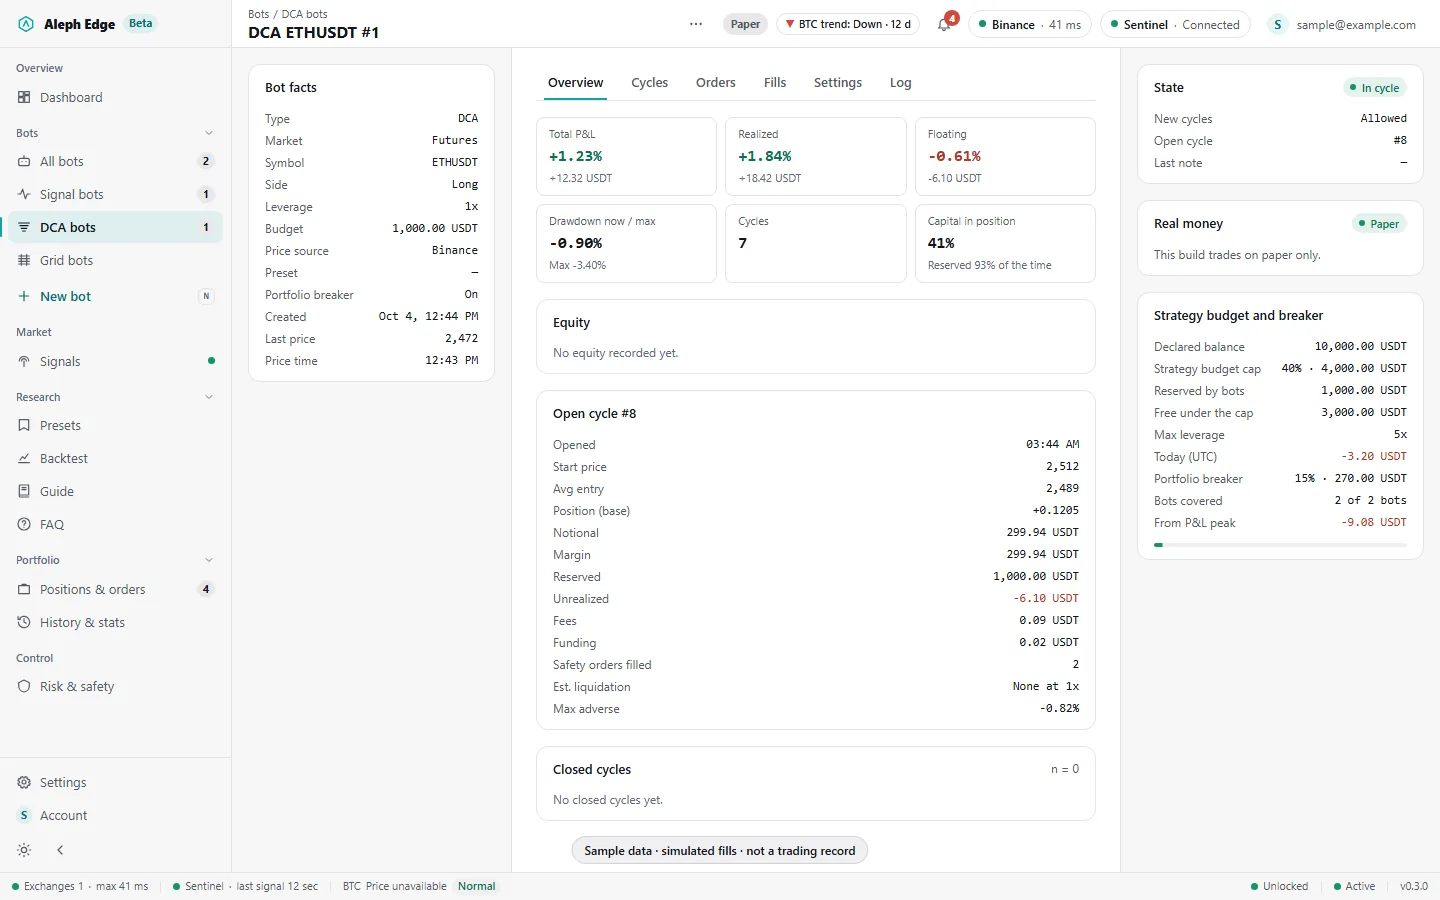
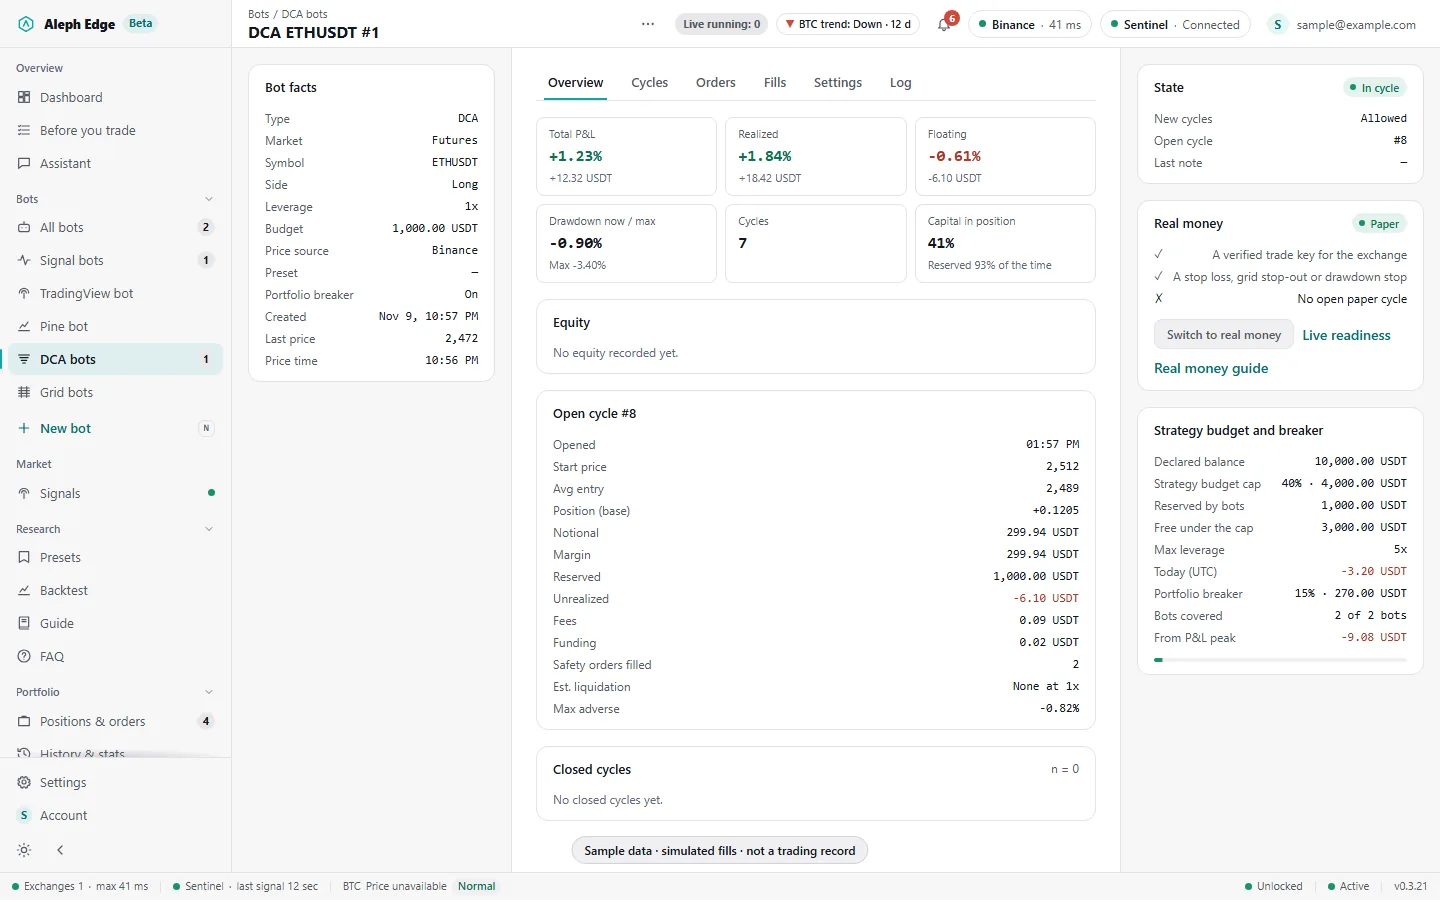
README: 0.3.22 screenshots and the 15-venue key, close and layout lines
Screens retaken from the 0.3.22 sample-data preview. The key verifier,
manual close and layout lines named Binance, Bybit and OKX only; 0.3.22
verifies keys and closes positions on all eight order-path venues.

diff --git a/README.md b/README.md
@@ -206,10 +206,11 @@ Every closed trade and what it adds up to: net P&L, win rate (exits at the targe
 
 API keys live in a local vault: Argon2id key derivation (64 MiB), AES-256-GCM, with the salt kept in the OS keychain, so the vault file alone cannot be opened on another machine. Secrets are wiped from memory when they go out of scope and never cross into the UI.
 
-- **Only verified trade-only keys are accepted.** A key's real permissions are read from the exchange (Binance's signed `apiRestrictions`, and the key-info endpoints of Bybit and OKX); a key that can withdraw, a key the exchange cannot be asked about, and keys for exchanges without a verifier are refused.
+- **Only verified trade-only keys are accepted.** A key's real permissions are read from the exchange (Binance's signed `apiRestrictions`, and the key-info endpoints of Bybit, OKX, Bitget, Gate, BingX, WOO X and Deribit); a key that can withdraw, a key the exchange cannot be asked about, and keys for exchanges without a verifier are refused.
 - Renew a key in place (the old one stays until the new one is accepted), rename it, remove it.
 - Change the vault password; choose auto-lock after 5 minutes to 1 month without use. While real money holds an open position the vault does not lock itself.
 - There is no password recovery by design: a lost password means resetting the vault.
+- **15 venues.** Eight have an order path (Binance, Bybit, OKX, Bitget, Gate, BingX, WOO X, Deribit); a venue goes live only after it passes a full run on its exchange's test network and a release switches it on. Binance has passed. The other seven give price data and paper trading. Until a venue is live, its key reads the account and closes positions, and bots run paper. Settings, Exchange keys lists each venue with its state.
 
 ### Settings and account
 
@@ -236,7 +237,7 @@ One build for everyone. Every bot is **Paper** or **Live**, chosen when it is ma
 
 Real automated orders need all of these at once: a Live bot (chosen with the typed `LIVE` and the money at risk shown: margin, leverage cap, pilot), its per-session arm (the typed `LIVE` again after every restart; a Live bot comes back stopped), a Futures bot on a venue whose order path passed its test-network run (Binance), and a verified trade-only key in an unlocked vault. Pilot caps, the daily stop, the risk level's leverage cap and the kill switch apply to every Live bot; **Stop all live** in the top bar stops and disarms them all. A real position row on a Paper bot is held out of the book, so a line in a file cannot send an order. Paper and real results are never mixed.
 
-The manual **Close position** and **Close all** on the exchange tab are the exception in every build: they send real reduce-only market orders on Binance, Bybit or OKX so you can flatten an account the desk is watching. They cannot open a position or move funds, and they sit behind a typed confirmation.
+The manual **Close position** and **Close all** on the exchange tab are the exception in every build: they send real reduce-only market orders on any of the eight venues with an order path so you can flatten an account the desk is watching. They cannot open a position or move funds, and they sit behind a typed confirmation.
 
 Try a Live bot on the **Binance Futures testnet** first (see [Configuration](#configuration)); the top bar then shows TESTNET.
 
@@ -358,7 +359,7 @@ Report security issues to <support@ribqa.com> with "security" in the subject, an
 src/                      React front end (pages, components, i18n in 8 languages, in-app guide)
 src-tauri/src/bot/        signal bot engine, DCA/Grid strategy engine, backtest
 src-tauri/src/vault/      encrypted key vault
-src-tauri/src/exchange/   Binance, Bybit and OKX clients (public prices, signed account and close orders)
+src-tauri/src/exchange/   Binance client and the venue layer for the other 14 venues (prices, signed account, orders)
 src-tauri/src/signal/     Sentinel signal stream, vetoes, backfill
 src-tauri/src/membership/ sign-in and session refresh against Sentinel
 crates/aleph-link         pairing and message protocol (shared)
